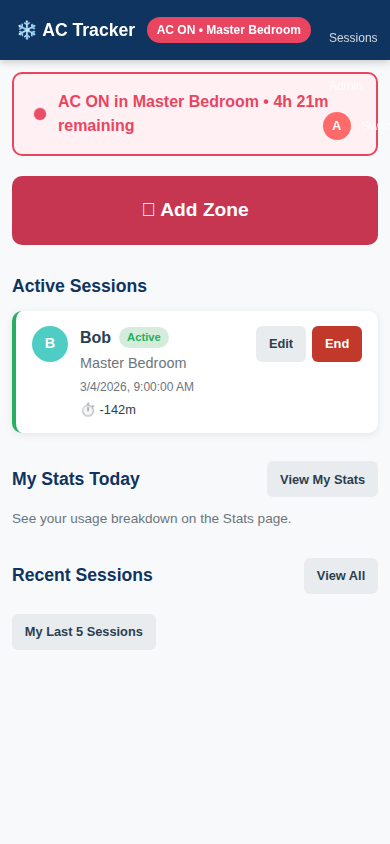
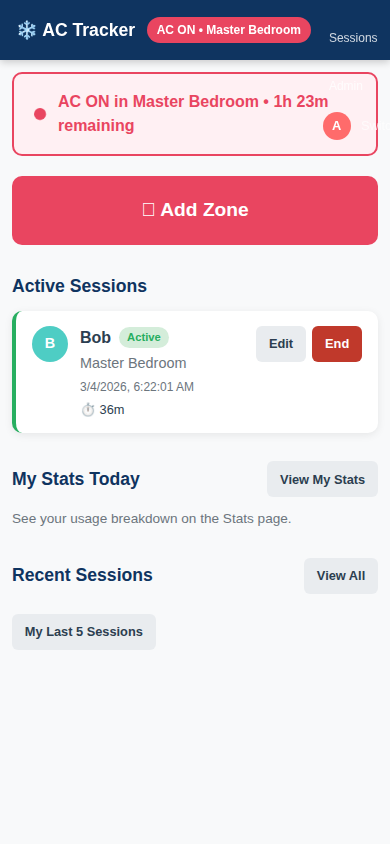
Fix negative duration display and cap time-remaining at auto-off window

diff --git a/backend/prisma/seed.ts b/backend/prisma/seed.ts
@@ -160,8 +160,14 @@ async function main() {
   await seedSession(17, 3, [3],    at(1, 19,  0), at(1, 19, 30));   // Carol
 
   // --- Today: one closed session + one ongoing ─────────────────────────────
-  await seedSession(18, 1, [1],    at(0,  7,  0), at(0,  8,  0));   // Alice, Living Room, 1h (closed)
-  await seedSession(19, 2, [2],    at(0,  9,  0), null);             // Bob,   Master Bedroom, ongoing
+  // Session 18: Alice, closed 1h session ending 30 min before the ongoing one started.
+  // Session 19: Bob's ongoing session started 30 minutes ago (relative to seed time so
+  //   it is always in the past regardless of timezone, avoiding a negative-duration display).
+  const ongoingStart = new Date(Date.now() - 30 * 60 * 1000);   // 30 min ago
+  const closedEnd    = new Date(ongoingStart.getTime() - 30 * 60 * 1000); // 60 min ago
+  const closedStart  = new Date(closedEnd.getTime()    - 60 * 60 * 1000); // 120 min ago
+  await seedSession(18, 1, [1],    closedStart, closedEnd);   // Alice, Living Room, 1h (closed)
+  await seedSession(19, 2, [2],    ongoingStart, null);        // Bob,   Master Bedroom, ongoing
 
   console.log('Sessions created: 19 sessions across 4-week window (exclusive, overlapping, combo, ongoing)');
   console.log('Seeding complete!');

diff --git a/frontend/src/pages/HomePage.tsx b/frontend/src/pages/HomePage.tsx
@@ -12,7 +12,8 @@ import type { Session } from '../types';
 function formatTimeRemaining(startTime: string, autoOffMinutes: number): string {
   const startMs = new Date(startTime).getTime();
   const endMs = startMs + autoOffMinutes * 60 * 1000;
-  const remaining = Math.max(0, Math.floor((endMs - Date.now()) / 60000));
+  // Cap at autoOffMinutes so a future-dated start never inflates the display
+  const remaining = Math.max(0, Math.min(autoOffMinutes, Math.floor((endMs - Date.now()) / 60000)));
   if (remaining <= 0) return 'auto-off soon';
   if (remaining < 60) return `${remaining}m remaining`;
   return `${Math.floor(remaining / 60)}h ${remaining % 60}m remaining`;

diff --git a/frontend/src/components/SessionCard.tsx b/frontend/src/components/SessionCard.tsx
@@ -10,7 +10,7 @@ interface SessionCardProps {
 function formatDuration(start: string, end?: string | null): string {
   const startMs = new Date(start).getTime();
   const endMs = end ? new Date(end).getTime() : Date.now();
-  const mins = Math.floor((endMs - startMs) / 60000);
+  const mins = Math.max(0, Math.floor((endMs - startMs) / 60000));
   if (mins < 60) return `${mins}m`;
   return `${Math.floor(mins / 60)}h ${mins % 60}m`;
 }
